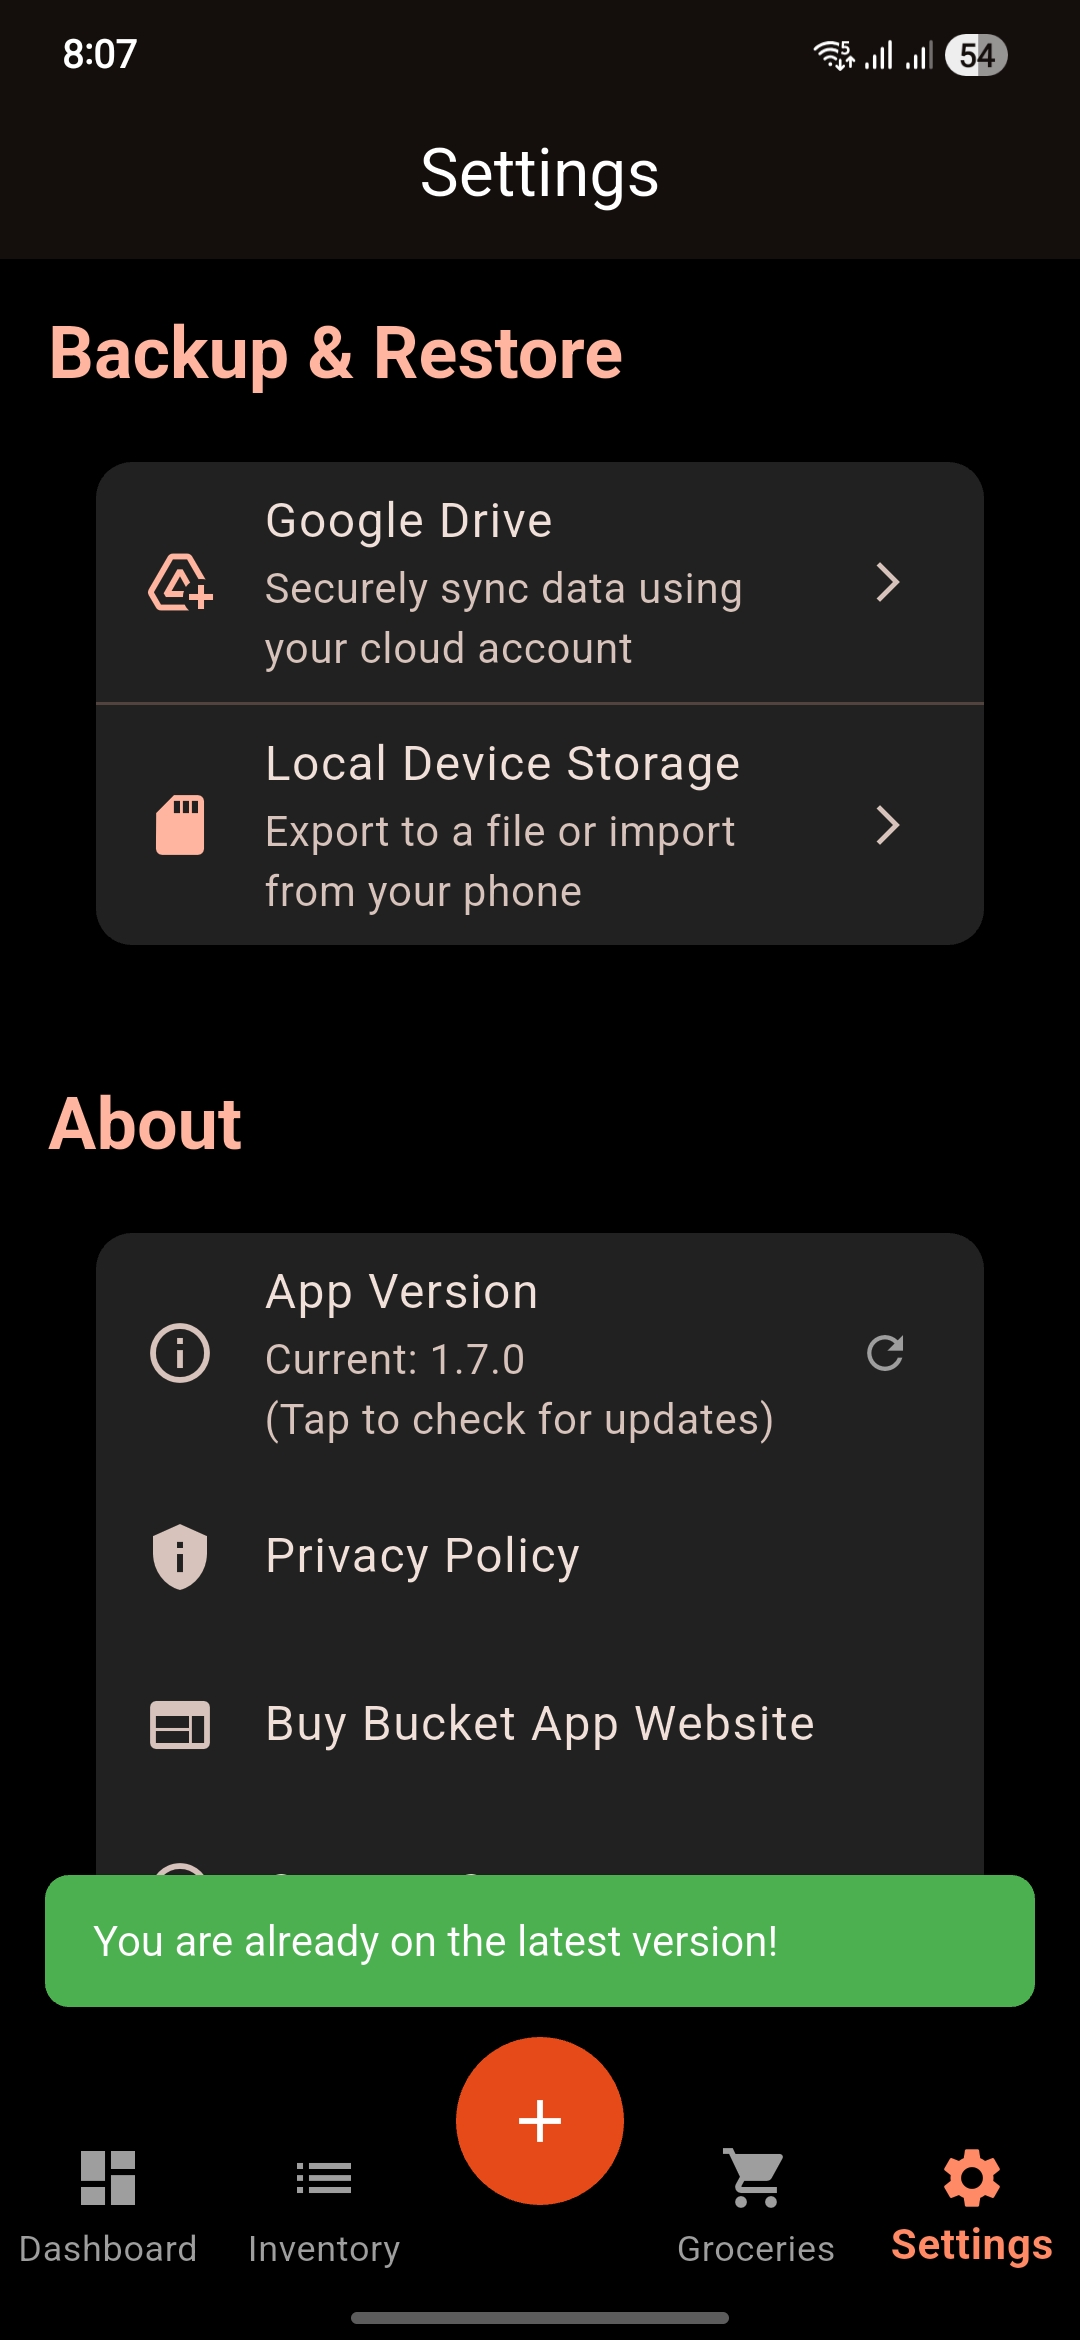
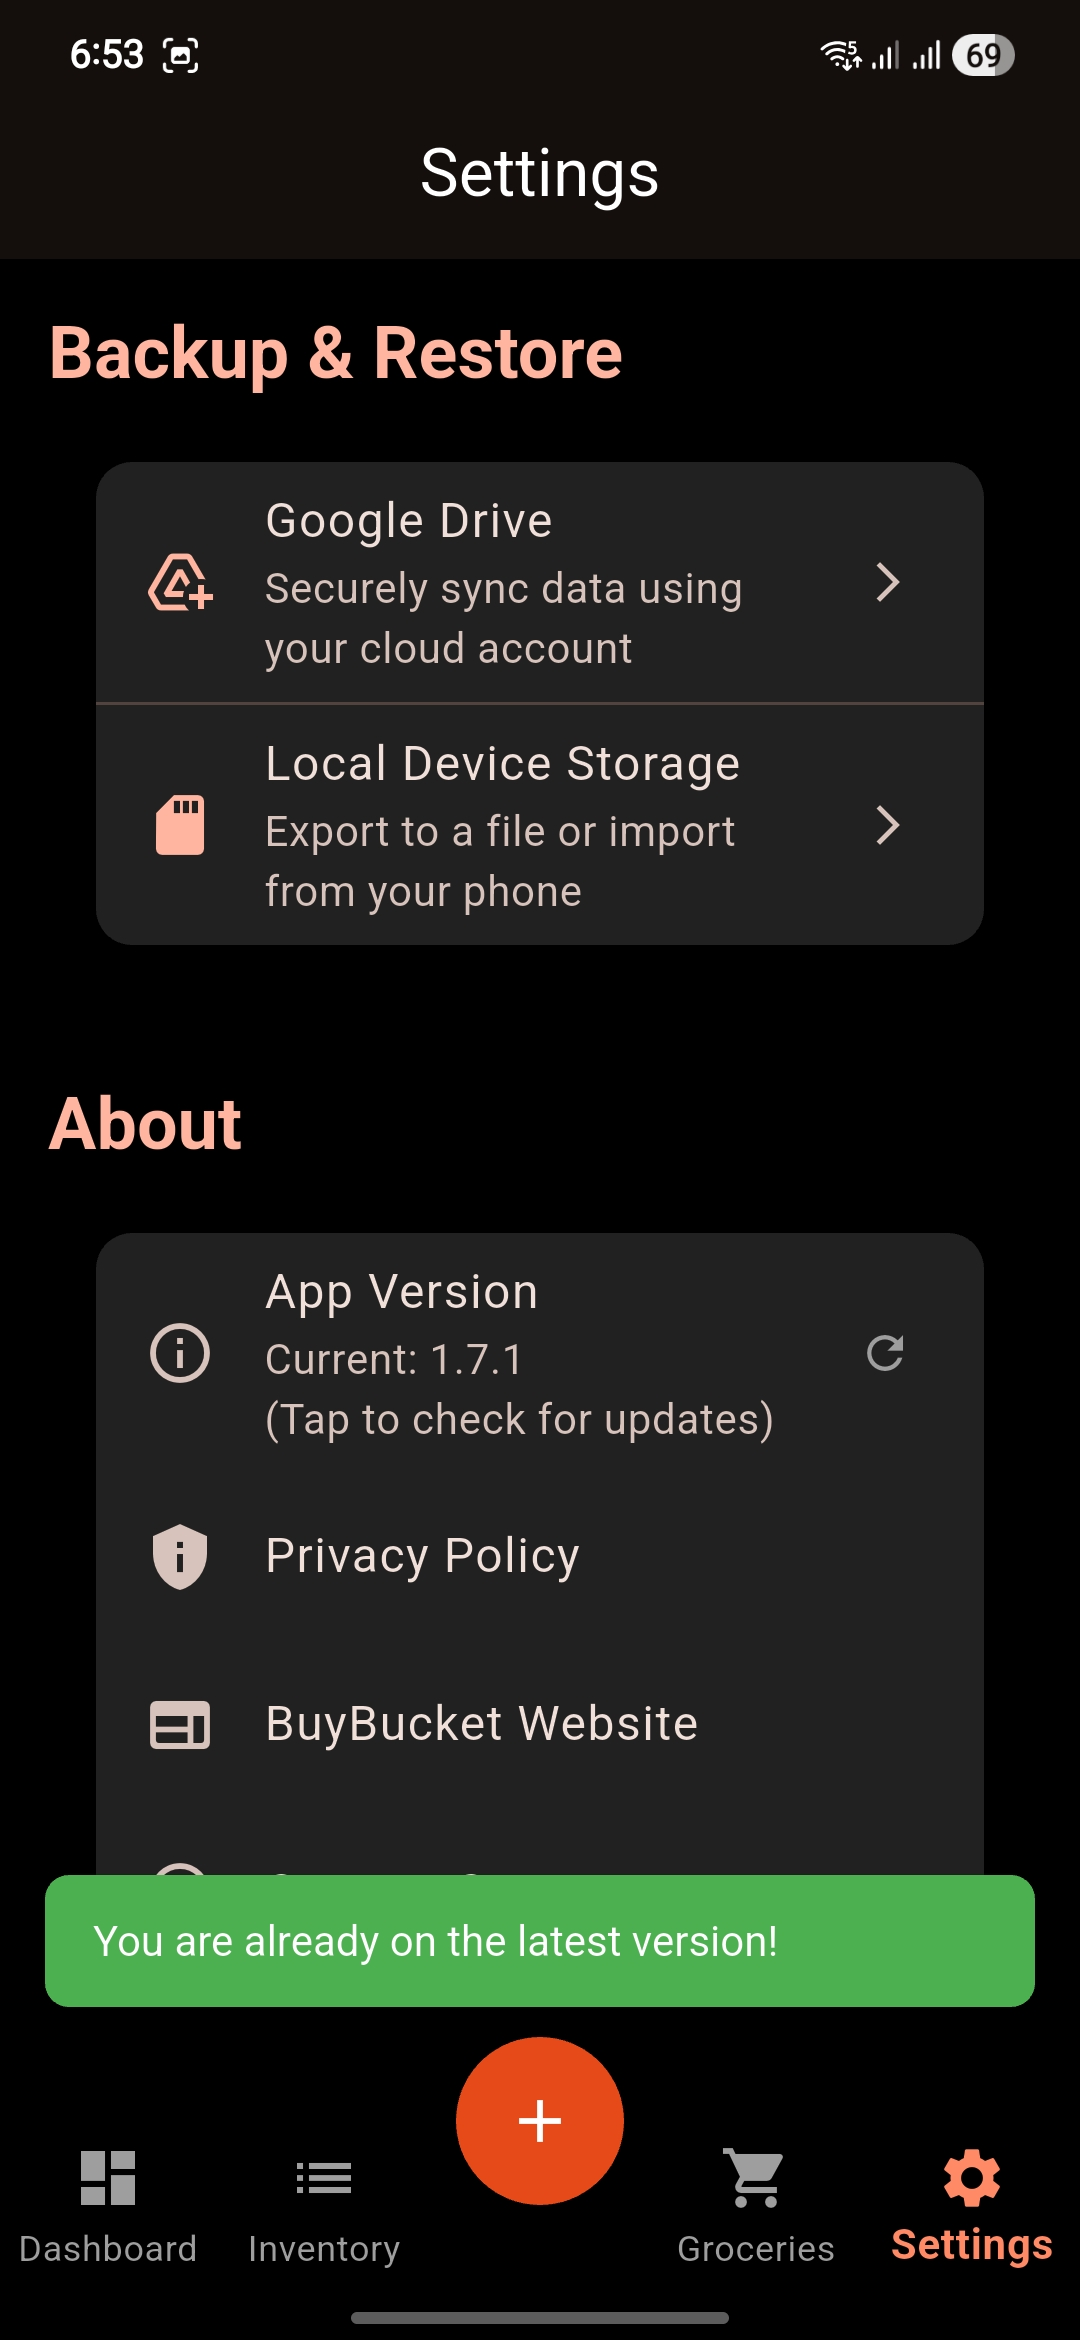
Website screenshot update and apk updated

diff --git a/script.js b/script.js
@@ -129,9 +129,30 @@ document.addEventListener('DOMContentLoaded', () => {
         // Using standard naming: screen_1.jpg ... screen_14.jpg
         // Provide placeholders if files don't exist yet
 
+        const screenshotTitles = [
+            "Smart Dashboard",
+            "Inventory - Bucket Items",
+            "Bucket Items - Slidable Action",
+            "Add New Item",
+            "Smart Suggestion",
+            "App Settings",
+            "Spending Analytics - Bucket Items",
+            "In-App Reminders",
+            "Groceries",
+            "Add New Grocery List",
+            "Spending Analytics - Groceries",
+            "Inventory - Pantry",
+            "Settings - Categories",
+            "App version update"
+        ]
+
         function createItem(index) {
             const div = document.createElement('div');
             div.className = 'carousel-item';
+
+            const contentWrapper = document.createElement('div');
+            contentWrapper.className = 'screenshot-wrapper';
+
             const img = document.createElement('img');
             img.className = 'carousel-screenshot';
             // Store theme paths
@@ -144,13 +165,18 @@ document.addEventListener('DOMContentLoaded', () => {
             const isDark = document.documentElement.getAttribute('data-theme') === 'dark';
             img.src = isDark ? img.dataset.dark : img.dataset.light;
 
-            // Fallback for missing images (handled by onerror if needed, but we assume assets exist)
-            img.onerror = function () {
-                // this.style.display='none'; // Hide if missing? Or show placeholder
-                // For dev, let's keep it visible so user knows to add file
-            };
+            // Fallback for missing images
+            img.onerror = function () { };
 
-            div.appendChild(img);
+            contentWrapper.appendChild(img);
+
+            // Add title element
+            const title = document.createElement('h4');
+            title.className = 'screenshot-title';
+            title.textContent = screenshotTitles[index - 1] || `Screenshot ${index}`;
+            contentWrapper.appendChild(title);
+
+            div.appendChild(contentWrapper);
             return div;
         }
 

diff --git a/style.css b/style.css
@@ -766,10 +766,6 @@ img {
     width: 250px;
     /* Base width */
     position: relative;
-    border-radius: 16px;
-    /* overflow: hidden; <-- Keep this for image corner radius */
-    overflow: hidden;
-    box-shadow: 0 8px 20px rgba(0, 0, 0, 0.1);
     transition: transform 0.3s cubic-bezier(0.2, 0.8, 0.2, 1);
     transform-origin: center center;
 }
@@ -778,7 +774,6 @@ img {
     transform: scale(1.05);
     /* Zoom in */
     z-index: 20;
-    box-shadow: 0 15px 35px rgba(0, 0, 0, 0.25);
 }
 
 .carousel-screenshot {
@@ -788,6 +783,31 @@ img {
     border: 3px solid #333;
     /* Phone border */
     border-radius: 16px;
+    box-shadow: 0 8px 20px rgba(0, 0, 0, 0.1);
+    transition: box-shadow 0.3s ease;
+}
+
+.carousel-item:hover .carousel-screenshot {
+    box-shadow: 0 15px 35px rgba(0, 0, 0, 0.25);
+}
+
+.screenshot-wrapper {
+    display: flex;
+    flex-direction: column;
+    align-items: center;
+    gap: 15px;
+}
+
+.screenshot-title {
+    font-size: 1.1rem;
+    color: var(--text-color);
+    font-weight: 600;
+    text-align: center;
+    margin: 0;
+}
+
+[data-theme="dark"] .screenshot-title {
+    color: #e0e0e0;
 }
 
 /* Responsive Sizing Calculation */

diff --git a/index.html b/index.html
@@ -476,8 +476,10 @@
 
                                 <h4>✍ Smarter Item Management</h4>
                                 <ul>
-                                    <li><strong>Autocomplete:</strong> The app now suggests names, icons, and categories
-                                        based on your history.</li>
+                                    <li><strong>Auto-complete/ Smart Suggestion:</strong> The app now suggests names
+                                        to complete the text and post selecting suggested text it will automatically
+                                        select the icon and category based on default values and your previous items
+                                        history.</li>
                                     <li><strong>Auto-Repeat:</strong> Set recurring items for daily, weekly, or monthly
                                         needs.</li>
                                     <li><strong>Priority Chips:</strong> New color-coded chips (Low/Medium/High) to help
